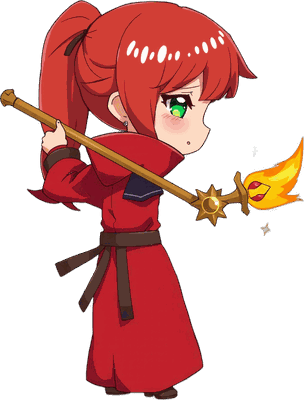
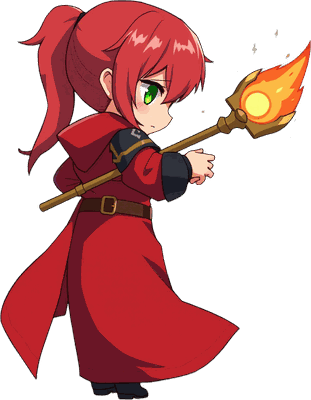
v0.72.0: 紅蓮の顔と視線をはっきり右へ + 測定値のぶれを止める
報告: 「紅蓮の顔と視線がこっちを向きすぎている」

・この子だけ顔が正面に寄りやすいので、頭と視線の向きを強く書いた指定を
  持たせ、種を4つ試して「顔も視線もはっきり右(敵の方)」のものを選んだ。
  この種は最初から右を向くので反転しない
・顔の測定値が測るたびに変わる問題を直した。減色(--shrink)で肌の色が
  わずかに動き、狭い判定だと肌から外れて数値が跳ねていた
  (学士が 43.2% ⇄ 31.8% を行き来していた)。判定の幅を広げて、
  減色の前後で同じ値が出るようにした

diff --git a/shared/characters.ts b/shared/characters.ts
@@ -40,16 +40,16 @@ export const CHAR_CHANGE_COST = 200;
 //   ±8%までに抑え、頭を揃えきるより背丈の自然さを優先する。
 //   帽子や髭のある子は測定値そのものが当てにならない(紫紺は測ると1.37倍
 //   必要と出るが、そのとおりにすると1人だけ見上げるほど大きくなる)。
-// 測定値(両目の幅 / 全身の高さ): 35.5% / 31.8% / 32.0% / 39.8% / 27.5% / 43.5%(平均 35.0%)
+// 測定値(両目の幅 / 全身の高さ): 35.5% / 43.2% / 26.5% / 39.8% / 27.5% / 43.5%(平均 36.0%)
 export const CHARACTERS: CharacterDef[] = [
   { id: 0, name: '黒金の魔女', note: '雷を操り、魔導書に真理を読む',
     element: 'thunder', scale: 1.00 },
   { id: 1, name: '白銀の学士', note: '風を読み、記録と観測を重んじる',
-    element: 'wind', scale: 1.08 },
+    element: 'wind', scale: 0.90 },
   { id: 2, name: '紅蓮の戦導士', note: '炎を纏い、前へ出て杖を振るう',
-    element: 'fire', scale: 1.08 },
+    element: 'fire', scale: 1.10 },
   { id: 3, name: '翠緑の薬導士', note: '水を扱い、調合と薬に通じた癒し手',
-    element: 'water', scale: 0.92 },
+    element: 'water', scale: 0.94 },
   { id: 4, name: '紫紺の導師', note: '大地を鎮める、古き術の大魔導士',
     element: 'earth', scale: 1.10 },
   { id: 5, name: '蒼氷の術士', note: '氷を結び、静けさの中で術を編む',

diff --git a/shared/version.ts b/shared/version.ts
@@ -4,6 +4,6 @@
 // BUILD_DATE は npm run build のたびに tools/stamp-version.mjs が
 // 実際の時刻(日本時間)で書き換えるので、手で触らないこと。
 
-export const VERSION = '0.71.0';
-export const BUILD_DATE = '2026-08-07 07:27';
+export const VERSION = '0.72.0';
+export const BUILD_DATE = '2026-08-07 07:44';
 export const COPYRIGHT = 'Copyright © 2026 YuriPapa';

diff --git a/tools/artgen/head_size.py b/tools/artgen/head_size.py
@@ -13,8 +13,8 @@
 #
 #   python head_size.py
 #
-# ※ 必ず --shrink(減色)の前に測ること。減色すると肌の色がわずかに動き、
-#   肌の判定から外れて数値が変わる(実際に 127px → 181px と食い違った)。
+# 減色(--shrink)で肌の色がわずかに動くので、判定の幅は広めに取ってある。
+# 狭いと減色の前後で数値が変わってしまう(実際に 127px → 181px と食い違った)。
 
 import os
 import sys
@@ -48,8 +48,8 @@ def eye_span(path):
     a = np.asarray(im).astype(int)[:int(im.height * TOP)]
     r, g, b, al = a[..., 0], a[..., 1], a[..., 2], a[..., 3]
     body = al > 128
-    skin = (body & (r > 205) & (g > 160) & (g < 235)
-            & (b > 140) & (b < 220) & (r > b + 20) & (r >= g))
+    skin = (body & (r > 195) & (g > 150) & (g < 240)
+            & (b > 130) & (b < 225) & (r > b + 15) & (r >= g - 5))
     ys, xs = np.where(skin)
     if len(xs) == 0:
         return None, im.height
@@ -86,8 +86,8 @@ def face_width(path):
     a = np.asarray(im).astype(int)[:int(im.height * TOP)]
     r, g, b, al = a[..., 0], a[..., 1], a[..., 2], a[..., 3]
     body = al > 128
-    skin = (body & (r > 205) & (g > 160) & (g < 235)
-            & (b > 140) & (b < 220) & (r > b + 20) & (r >= g))
+    skin = (body & (r > 195) & (g > 150) & (g < 240)
+            & (b > 130) & (b < 225) & (r > b + 15) & (r >= g - 5))
     ys, xs = np.where(skin)
     if len(xs) == 0:
         return None, None, im.height

diff --git a/tools/artgen/gen_poses.py b/tools/artgen/gen_poses.py
@@ -206,7 +206,8 @@ def gen_player(subj, num, pose, seed=None):
     # 頭の大きさが揃わないため(選択画面では表示倍率がかからないので、
     # 絵そのものを揃えないと並べた時に見劣りする)。
     body = s.get('body') or subj['player_body']
-    p = (f"{subj['player_view']}, {s['prompt']}, {subj['player_poses'][pose]}, "
+    view = s.get('view') or subj['player_view']
+    p = (f"{view}, {s['prompt']}, {subj['player_poses'][pose]}, "
          f"{body}, {style_of(subj, False)}")
     img = generate(p, PLAYER_W, PLAYER_H, pose_seed(s, pose, seed))
     cut = cutout(img)
